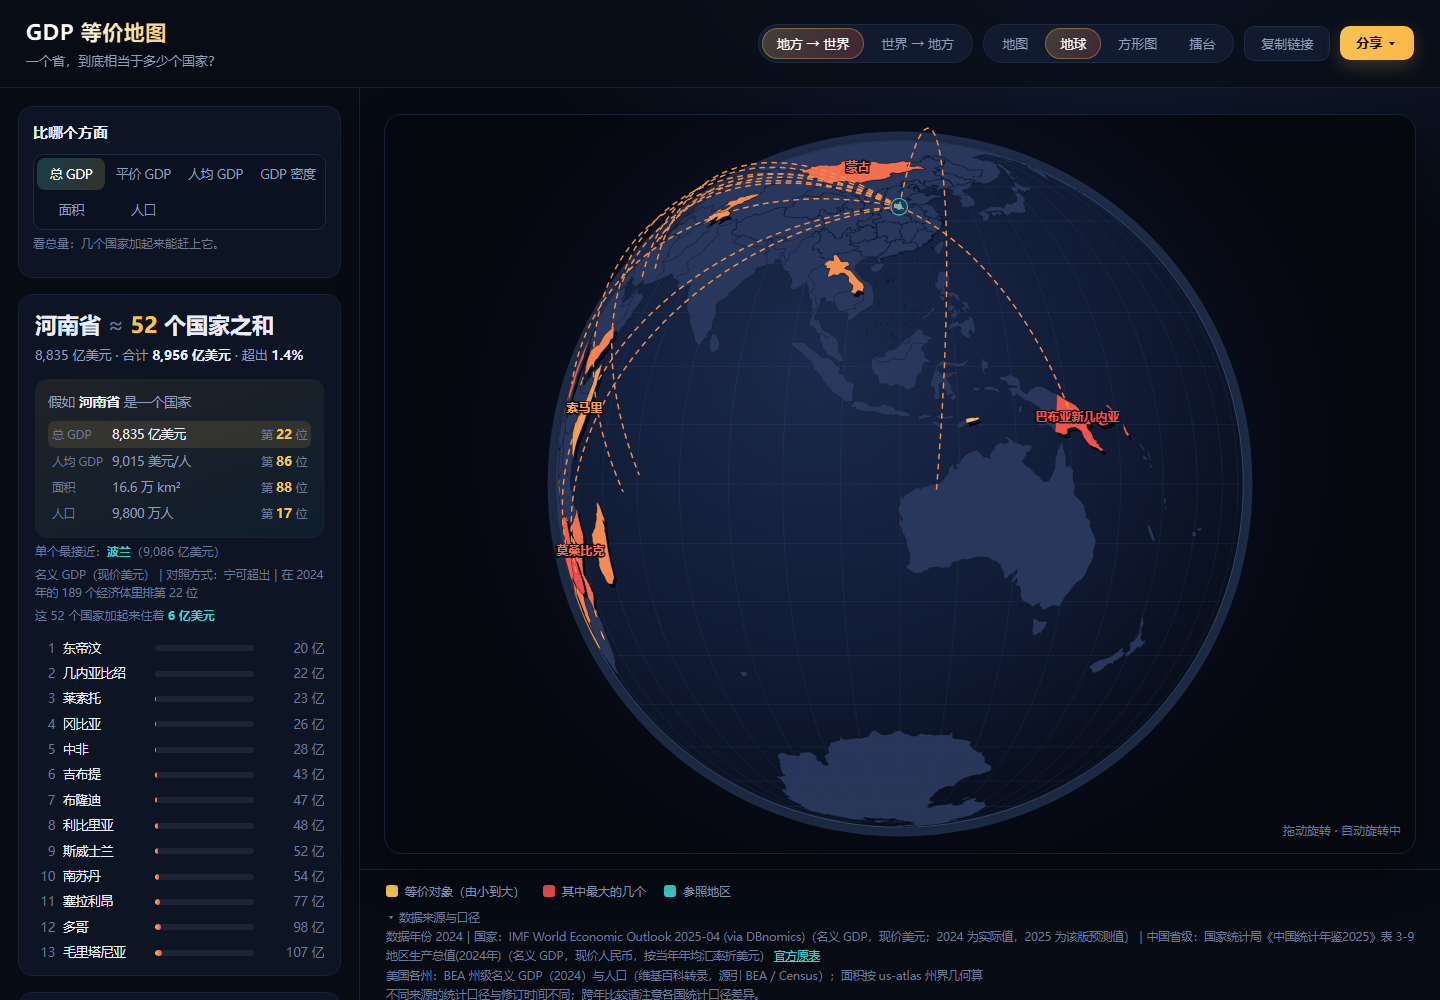
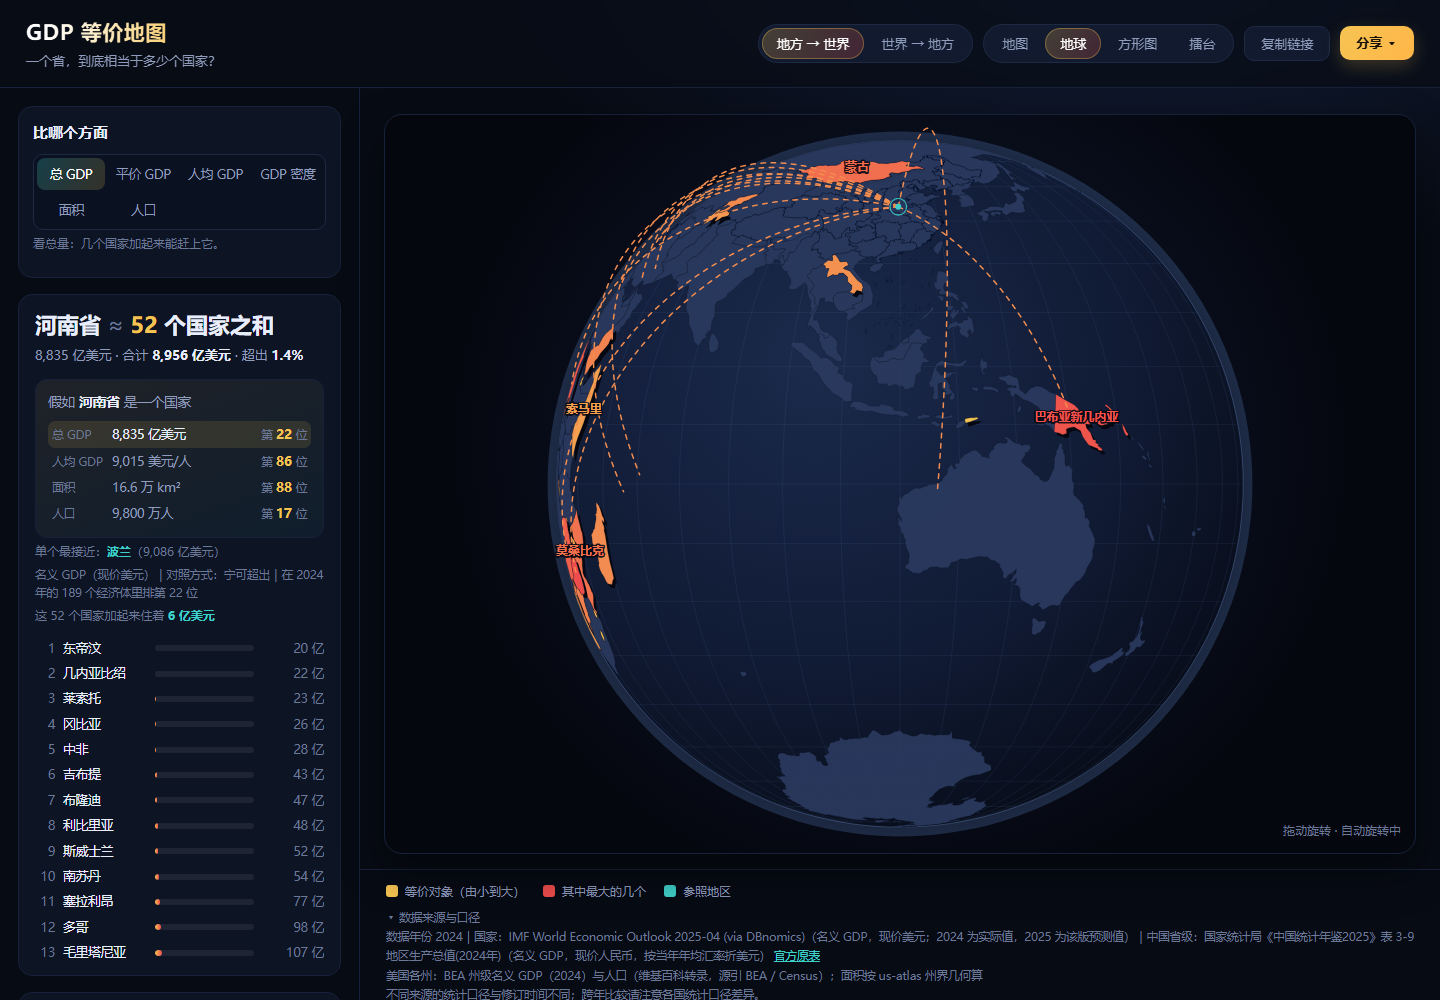
docs: describe the animated comparison and the year playback
Also refreshes the screenshots, since the play button and the new headline changed the interface.

diff --git a/AGENTS.md b/AGENTS.md
@@ -80,6 +80,7 @@
 12. **选两个地方时给出「两个目标对比」。** 总量/人均/面积/人口逐项摆开，并指名道姓说清谁大多少。
 13. **国家侧可回溯到 1990 年。** 面板上有年份滑块，排名与匹配结果都跟着变（「今天这个地方放在当年是什么水平」）；
     省级数据固定 2024 年，两侧年份不同，页面上必须写清楚。
+    滑块旁边有「▶ 播放」：从 1990 一路走到 2025，看这个地方的体量怎么变。
 14. **结果先给反事实结论：「假如 X 是一个国家」。** GDP/人均/面积/人口各自的世界名次，
     这是最容易被转发的一句话，排在结果卡最前面。
 15. **拼图玩法要有胜负标准。** 最多 3 个国家、合计不超过目标、公布最优解；
@@ -91,6 +92,13 @@
 18. **视图有四个**：地图 / 地球 / 方形图 / 擂台。方形图用 d3-hierarchy 的 squarify；
     擂台左边是逐项 PK 的比分，右边是前 16 名的对阵树。
 19. **今日一省要确定性**：按日期哈希抽同一个省，所有人打开看到的一样，才能互相发。
+20. **对比要有动态。** 换指标、换口径、换年份时，结论里的数字从旧值滚到新值，结果列表的条形滑到新长度，
+    地图上的高亮从旧颜色淡到新颜色。原则是「它变了」这件事本身就要让人看出来。
+    ⚠ 全部动效要包在 `prefers-reduced-motion: no-preference` 里（`CountUp` 组件内部也要判一次），
+    系统关了动效的用户看到的是瞬间切换，不是动画。
+    ⚠ 数字滚动是**直接改 DOM 文本**，不走 setState：结果列表有五十多行，每帧重渲染整棵子树会掉帧。
+    ⚠ 导出不受动效影响：导出用的是 state 里的最终字符串，而 `export.ts` 注入的 `SVG_STYLE`
+    里写着 `.country { transition: none }`，图片不会被拍到过渡中间的颜色。
 
 ## 4. 已知的技术坑（改代码前先看这里）
 

diff --git a/README.md b/README.md
@@ -57,7 +57,8 @@
 - **方形图**：世界按当前指标重画，每块的大小就是它的份额（squarify 铺排）
 - **擂台**：两个地方逐项 PK 打出比分（总 GDP / 平价 / 人均 / 密度 / 面积 / 人口），右边是省/州前 16 名的对阵树
 - **年份回溯**：国家侧的数据可回到 1990 年。把滑块往前拨，看「今天这个地方放在当年是什么水平」——
-  2024 年的河南相当于 1990 年的 75 个国家，排名也在面板里写明是第几年的第几名
+  2024 年的河南相当于 1990 年的 75 个国家，排名也在面板里写明是第几年的第几名。
+  按「▶ 播放」让它**从 1990 自己走到 2025**，看这个地方的体量怎么变（结论数字会滚动、地图高亮会渐变）
 - **今日一题**：随机抽一个地方 + 一个指标 + 一套口径，一键换一个话题
 - **今日一省**：按日期确定性地抽一个省——今天所有人打开看到的都一样，方便互相发
 - **拼图玩法**：见上
@@ -68,6 +69,9 @@
   - 下载高清图——横版 3600px 宽
 - **界面顺序**按新用户动线排：先选指标 → 直接给结论 → 再换地方 → 最后才是微调口径
   （手机上反过来：先给地图和结论，控件在下面）
+- **对比是动态的**：换指标、换口径、换年份时，结论里的数字从旧值滚到新值，结果列表的条形滑到新长度，
+  地图上的高亮从旧颜色淡到新颜色——「它变了」这件事本身就是要让人看出来的。
+  开了系统的「减少动态效果」就全部变成瞬间切换。
 
 ## 看看长什么样
 
